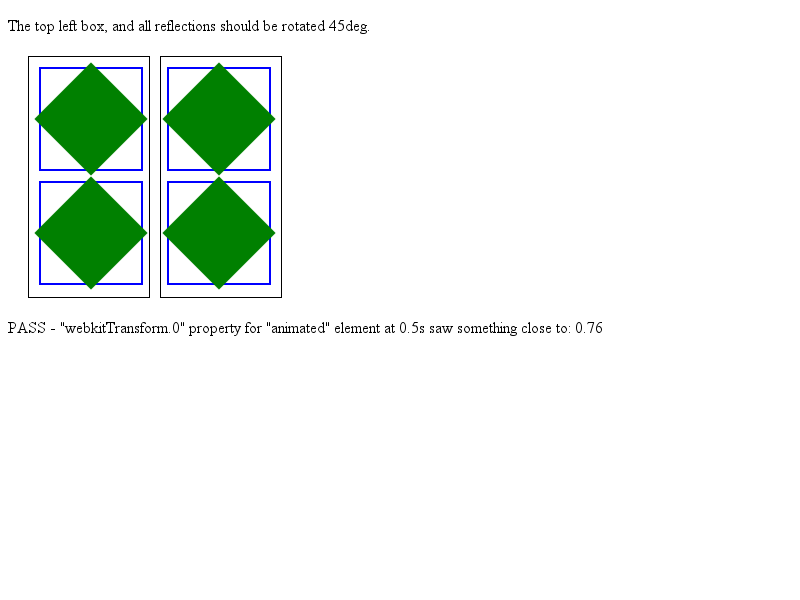
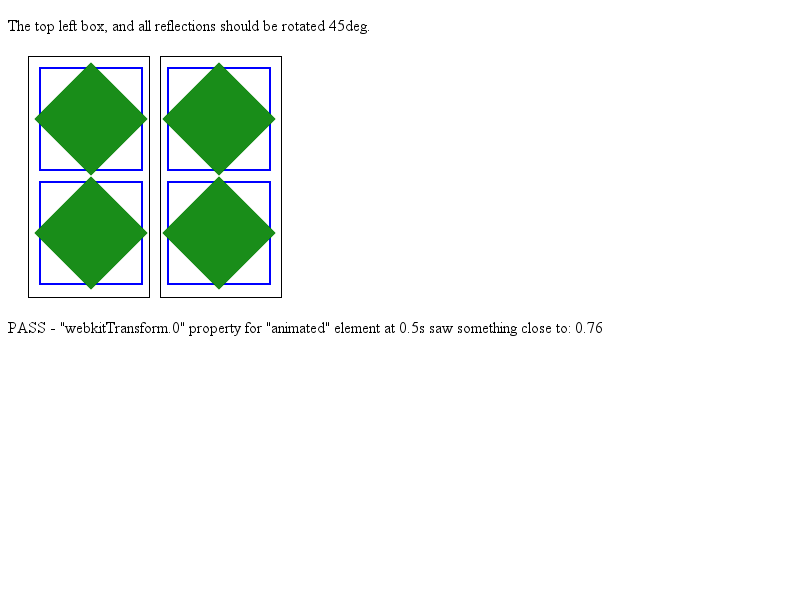
[Texmap] TextureMapperPaintOptions should keep current surface. https://bugs.webkit.org/show_bug.cgi?id=89266
Source/WebCore:

Before this patch, if a replica layer has a descendant replica child, the child
layer does not render the result in the parent layer's surface because
TextureMapperPaintOptions does not keep current surface.
This patch amends that TextureMapperPaintOptions keeps current surface before
calling paintSelfAndChildrenWithReplica recursively, so previous surface could be
restored after paintSelfAndChildrenWithReplica.

Patch by Huang Dongsung <luxtella@company100.net> on 2012-06-25
Reviewed by Noam Rosenthal.

Test: compositing/reflections/animation-inside-reflection.html

* platform/graphics/texmap/TextureMapperLayer.cpp:
(WebCore::TextureMapperLayer::paintRecursive):

LayoutTests:

Add a opacity property to two div layers in animation-insiVde-reflection
test.
Texmap has a bug when a transparent reflection layer has another
transparent reflection layer, so two reflection layer in
animation-inside-reflection test have opacity in order to cover Texmap's
bug.

Patch by Huang Dongsung <luxtella@company100.net> on 2012-06-25
Reviewed by Noam Rosenthal.

* compositing/reflections/animation-inside-reflection.html:
* platform/chromium-linux/compositing/reflections/animation-inside-reflection-expected.png:
* platform/chromium-mac-leopard/compositing/reflections/animation-inside-reflection-expected.png:
* platform/chromium-mac-snowleopard/compositing/reflections/animation-inside-reflection-expected.png:
[…]

Changed region(s): [[0.0312, 0.09, 0.3438, 0.48]]

diff --git a/LayoutTests/compositing/reflections/animation-inside-reflection.html b/LayoutTests/compositing/reflections/animation-inside-reflection.html
@@ -9,6 +9,7 @@
     margin: 20px;
     border: 1px solid black;
     -webkit-box-reflect: right 10px;
+    opacity:0.95;
   }
   
   .inner {
@@ -19,6 +20,7 @@
     font-size: 50pt;
     border: 2px solid blue;
     -webkit-box-reflect: below 10px;
+    opacity:0.95;
   }
   
   #animated {

diff --git a/Source/WebCore/platform/graphics/texmap/TextureMapperLayer.cpp b/Source/WebCore/platform/graphics/texmap/TextureMapperLayer.cpp
@@ -351,9 +351,6 @@ void TextureMapperLayer::paintRecursive(const TextureMapperPaintOptions& options
 
     TextureMapperPaintOptions paintOptions(options);
     paintOptions.mask = maskTexture.get();
-    IntRect surfaceRect;
-
-    RefPtr<BitmapTexture> surface;
 
     if (!shouldPaintToIntermediateSurface()) {
         paintOptions.opacity = opacity;
@@ -363,8 +360,9 @@ void TextureMapperLayer::paintRecursive(const TextureMapperPaintOptions& options
 
     // Prepare a surface to paint into.
     // We paint into the surface ignoring the opacity/transform of the current layer.
-    surfaceRect = intermediateSurfaceRect();
-    surface = options.textureMapper->acquireTextureFromPool(surfaceRect.size());
+    IntRect surfaceRect = intermediateSurfaceRect();
+    RefPtr<BitmapTexture> surface = options.textureMapper->acquireTextureFromPool(surfaceRect.size());
+    paintOptions.surface = surface;
     options.textureMapper->bindSurface(surface.get());
     paintOptions.opacity = 1;
 
